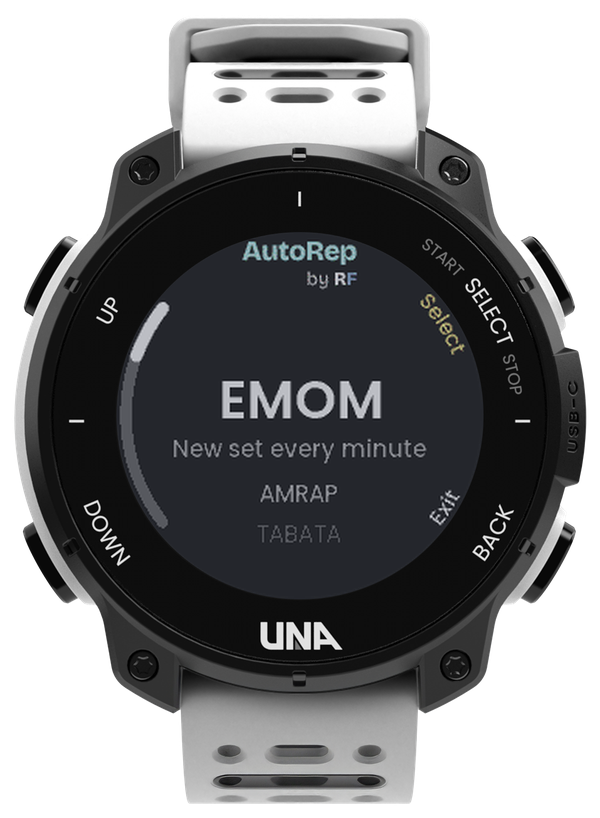
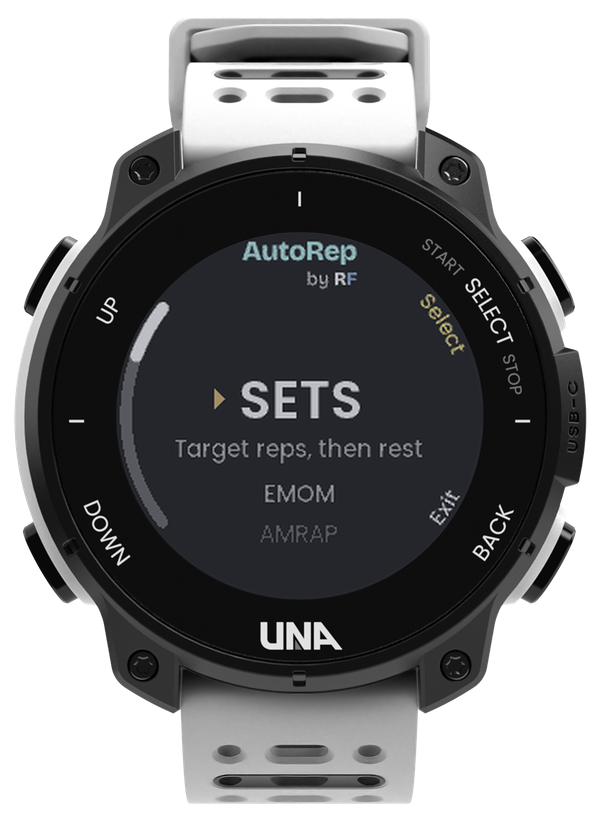
AutoRep: Sets screens and README for 0.9.9

Changed region(s): [[0.27, 0.4584, 0.72, 0.6112], [0.42, 0.6418, 0.57, 0.6724]]

diff --git a/AutoRep/README.md b/AutoRep/README.md
@@ -24,9 +24,9 @@ and no phone.
 ## Why
 
 Interval timers tell you when to work, but you still count reps in your head while out of breath,
-and the count is gone when the set ends. AutoRep counts for you. In EMOM it buzzes the moment you
-hit your target, so the rest of the minute is rest. Afterwards it shows reps per round, your heart
-rate and your pace, so you can see where you slowed down.
+and the count is gone when the set ends. AutoRep counts for you. In Sets and EMOM it buzzes the
+moment you hit your target and your rest starts by itself: no button between sets. Afterwards it
+shows reps per round, your heart rate and your pace, so you can see where you slowed down.
 
 ## What it does
 
@@ -53,16 +53,17 @@ rate and your pace, so you can see where you slowed down.
   that long before each rest ends, then 3-2-1.
 - **Miscounted?** L1 and L2 add or remove a rep with one press, even during rest.
 - **Remembers your last workout:** open AutoRep and press R1 twice to start it again.
-- **Saved to the UNA phone app:** each workout is an activity with one lap per round, heart rate,
+- **Saved to the UNA phone app:** each workout is an activity with one lap per round (per side with
+  Sides 2), heart rate,
   calories, total reps, reps per lap, and graphs of reps and reps per minute over time.
 - **On the watch:** counting and timing need no phone and no account.
 
 ## Screens
 
-| Choose a format | Set it up | Finding your rhythm | Counting | Target hit | Summary |
+| Choose a format | Set it up | Finding your rhythm | A set | Target hit | Summary |
 |:---:|:---:|:---:|:---:|:---:|:---:|
-| <img src="images/1_mode.png" width="130"> | <img src="images/2_setup.png" width="130"> | <img src="images/4_finding_rhythm.png" width="130"> | <img src="images/5_counting.png" width="130"> | <img src="images/6_target_hit_rest.png" width="130"> | <img src="images/7_summary.png" width="130"> |
-| Sets, EMOM, AMRAP or Tabata | START first: last time's settings are kept | First three reps, in grey, set the baseline | Amber count, heart rate; the ring is the time left | Green: rest until the next minute | Reps per round against the target |
+| <img src="images/1_mode.png" width="130"> | <img src="images/2_setup.png" width="130"> | <img src="images/4_finding_rhythm.png" width="130"> | <img src="images/5_sets.png" width="130"> | <img src="images/6_target_hit_rest.png" width="130"> | <img src="images/7_summary.png" width="130"> |
+| Sets, EMOM, AMRAP or Tabata; the amber mark points at your choice | Target, sets, sides and rest; START first, last time's settings kept | First three reps, in grey, set the baseline | Sets: no clock, the time counts up; R1 ends the set | Green: the rest has started | Reps per round against the target |
 
 <!-- UNA phone app screenshot goes here:
 <img src="images/phone_app.png" alt="An AutoRep workout in the UNA phone app" width="300">
@@ -89,8 +90,8 @@ kettlebell swings and jumping jacks.
 
 **Tested:** on 300 simulated sets per exercise (random speed, depth, fatigue, pauses, strap position
 and sensor noise), the count is within one rep of the truth in every clean set, and standing still
-for 30 s adds zero false reps. On a real wrist, squats count once the rhythm locks on, the buzzes
-and the phone-app activity work. The other exercises are tuned on the simulator so far.
+for 30 s adds zero false reps. On a real wrist, squats and presses count once the rhythm locks on,
+the buzzes and the phone-app activity work. The other exercises are tuned on the simulator so far.
 
 ## Coming next
 
